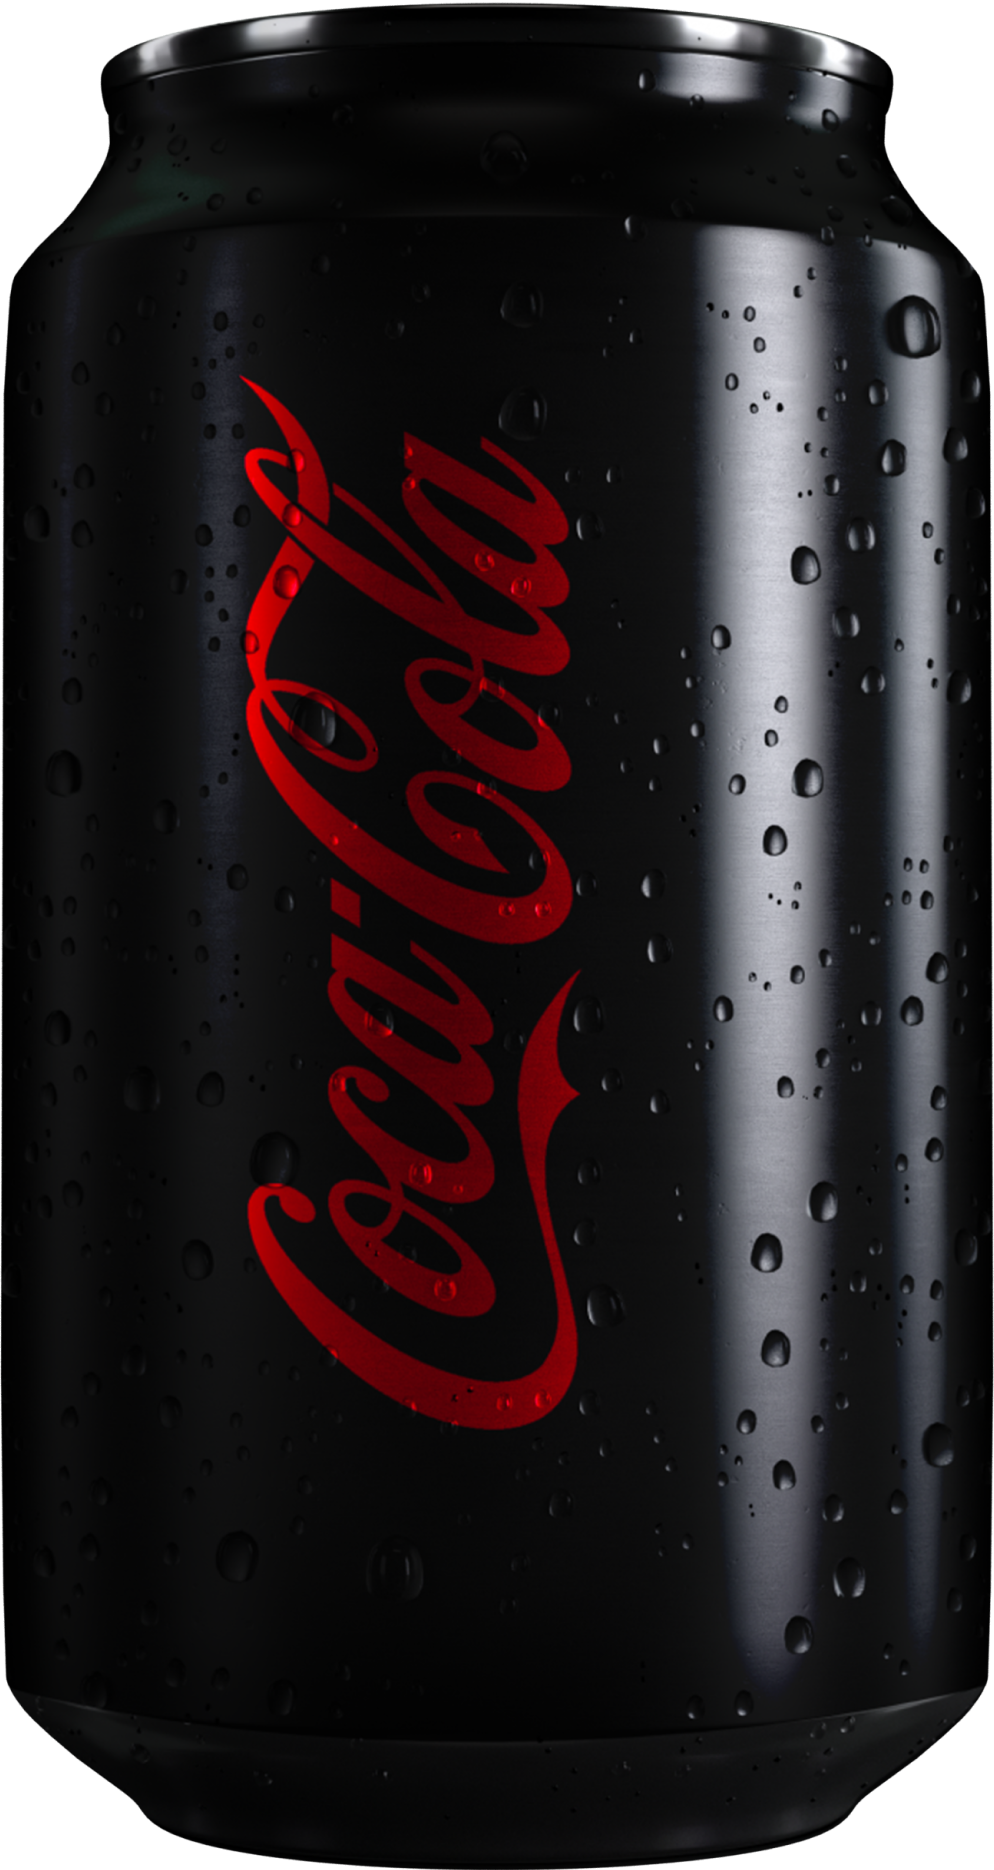
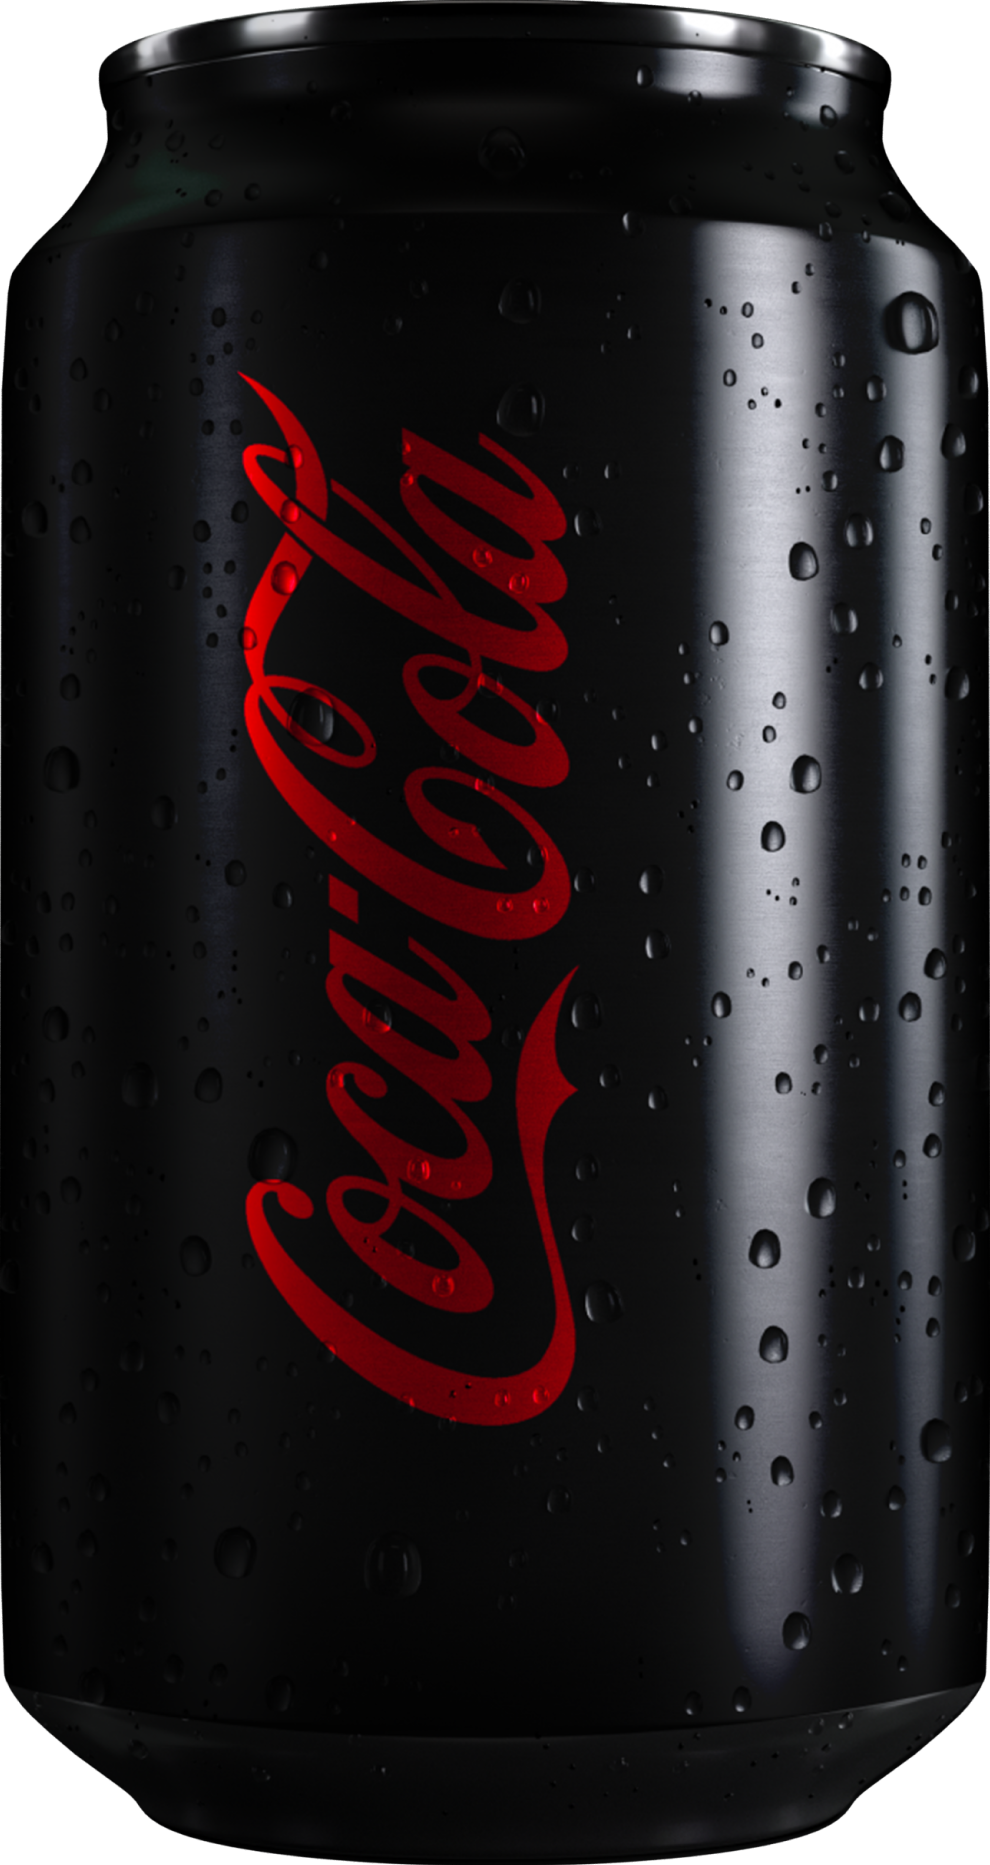
feat(sketch): crop can

diff --git a/src/store/funnel/state.js b/src/store/funnel/state.js
@@ -13,12 +13,73 @@ export default {
       slug: 'bottle',
       image: bottle,
       sketch: null,
+      clip: [],
     },
     {
       name: 'Can',
       slug: 'can',
       image: can,
       sketch: canSketch,
+      clip: [
+        '50% 0',
+        '39% 0%',
+        '22% 1%',
+        '22% 2%',
+        '14% 2%',
+        '11% 3%',
+        '10% 4%',
+        '10% 5%',
+        '11% 6%',
+        '11% 7%',
+        '10% 9%',
+        '9% 10%',
+        '7% 11%',
+        '5% 13%',
+        '2% 14%',
+        '1% 15%',
+        '0% 60%',
+        '0% 80%',
+        '1% 90%',
+        '3% 92%',
+        '5% 93%',
+        '7% 94%',
+        '12% 96%',
+        '14% 97%',
+        '16% 98%',
+        '18% 98.5%',
+        '22% 99%',
+        '25% 99.5%',
+        '35% 100%',
+        '65% 100%',
+        '75% 99.5%',
+        '78% 99%',
+        '82% 98.5%',
+        '84% 98%',
+        '86% 97%',
+        '88% 96%',
+        '93% 94%',
+        '95% 93%',
+        '97% 92%',
+        '99% 90%',
+        '100% 80%',
+        '100% 60%',
+        '99% 15%',
+        '98% 14%',
+        '95% 13%',
+        '93% 11%',
+        '91% 10%',
+        '90% 9%',
+        '89% 7%',
+        '89% 6%',
+        '90% 5%',
+        '90% 4%',
+        '89% 3%',
+        '86% 2%',
+        '78% 2%',
+        '78% 1%',
+        '61% 0%',
+        '50% 0',
+      ],
     },
   ],
   progression: 0,

diff --git a/src/modules/Sketch/Sketch.vue b/src/modules/Sketch/Sketch.vue
@@ -1,5 +1,8 @@
 <template>
-  <div :class="$style.container">
+  <div
+    :class="$style.container"
+    :style="style"
+  >
     <img
       :class="$style.image"
       :src="image.src"
@@ -31,6 +34,11 @@ export default {
         height: 0,
       },
     }
+  },
+  computed: {
+    style() {
+      return { clipPath: `polygon(${this.image.clip.join(', ')})` }
+    },
   },
   mounted() {
     // eslint-disable-next-line no-new
@@ -71,9 +79,11 @@ export default {
 .image {
   max-height: 75vh;
   opacity: 0;
+  pointer-events: none;
 }
 
 .wrapper {
+  pointer-events: none;
   @include centralizer;
   @include overlay;
 }

diff --git a/src/pages/Funnel.vue b/src/pages/Funnel.vue
@@ -41,7 +41,7 @@
     </div>
     <ModuleSketch
       v-if="option.sketch"
-      :image="{ src: option.sketch, alt: option.name }"
+      :image="{ src: option.sketch, alt: option.name, clip: option.clip }"
     />
   </div>
 </template>
